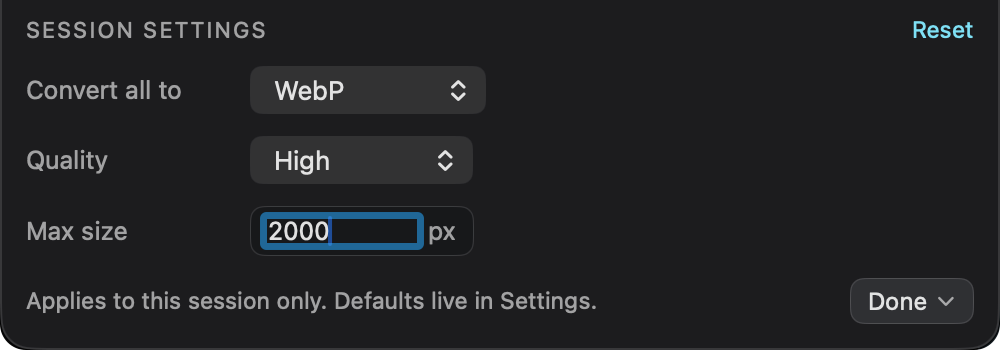
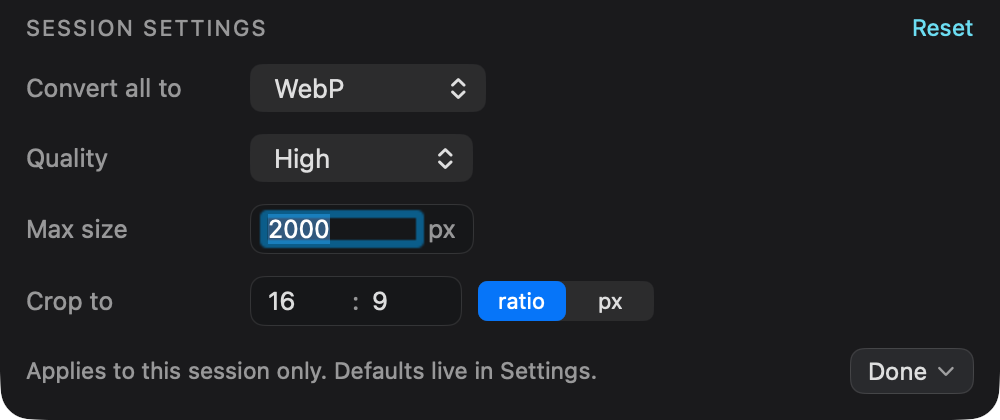
Prepare 1.4.0: version, changelog, docs and fresh screenshots
Version bumped in project.yml and ShrinkerVersion, which
CommandLineOptionsTests pins against each other.

README gains the crop in the session bar section and in the CLI table, and
its resizing paragraph becomes a resizing-and-cropping one. The Settings
window's own section needs nothing: it looks the same on a display tall
enough to show it, which is what its screenshots capture.

Only the session bar screenshots are regenerated, because they are the only
ones that changed. The main window and empty state shots show the collapsed
bar reading "App default · Standard · No limit", which is still exactly what
it says with nothing set — the crop is named in the summary only when there
is one.

Claude-Session: https://claude.ai/code/session_01VXko1RHjCYBkk3CLbuz4rY

diff --git a/Sources/ShrinkerPro/Core/ShrinkerVersion.swift b/Sources/ShrinkerPro/Core/ShrinkerVersion.swift
@@ -16,5 +16,5 @@ import Foundation
 /// something other than good intentions keeping it correct.
 enum ShrinkerVersion {
     /// Must equal `MARKETING_VERSION` in project.yml, which is asserted.
-    static let current = "1.3.1"
+    static let current = "1.4.0"
 }

diff --git a/README.md b/README.md
@@ -69,6 +69,8 @@ shrinker photo.jpg                              # a .min copy beside it
 shrinker --quality super-low --to webp ./shots   # a whole folder
 shrinker --json --quality 85 diagram.jpg         # one JSON line per file
 shrinker --max-size 2000 ./camera-roll           # nothing wider or taller than 2000px
+shrinker --crop 1:1 ./avatars                    # square, from the center
+shrinker --crop 1200x1200 ./product-shots        # square and exactly 1200px
 ```
 
 | | |
@@ -76,6 +78,7 @@ shrinker --max-size 2000 ./camera-roll           # nothing wider or taller than 
 | `--quality <level\|0-100>` | `super-low`, `low`, `standard` (default), `high` — or a number |
 | `--to <format>` | `jpeg`, `webp`, `avif`, `png` |
 | `--max-size <pixels>` | shrink any image whose longest side is bigger than this |
+| `--crop <WxH\|W:H>` | crop the center to this shape. `1200x1200` also scales to that size; `1:1` only changes the shape |
 | `--metadata <policy>` | `all` (default), `copyright`, `none` |
 | `--out <directory>` | write results here instead of beside each input |
 | `--in-place` | overwrite each original. This destroys the source |
@@ -203,14 +206,13 @@ saying what will happen to the next files you drop:
 
     This session   WebP · High · Max 2000px   Reset            Adjust ⌃
 
-**Adjust** opens the three controls in place — **Convert all to**, **Quality**
-and **Max size** — and Done, Escape or a click anywhere above closes them again.
-Nothing is ever discarded by closing: a value applies the moment it is chosen.
-A dot appears beside the summary whenever any of the three differs from what the
-app would do on its own, and **Reset** puts all three back. On a narrow window
-the bar drops the "This session" prefix and the inline Reset rather than
-wrapping; the dot and the summary carry the meaning, and Reset is still in the
-panel.
+**Adjust** opens the four controls in place — **Convert all to**, **Quality**,
+**Max size** and **Crop to** — and Done, Escape or a click anywhere above closes
+them again. Nothing is ever discarded by closing: a value applies the moment it
+is chosen. A dot appears beside the summary whenever any of them differs from
+what the app would do on its own, and **Reset** puts them all back. On a narrow
+window the summary moves to a line of its own beneath the controls rather than
+truncating, because a value hidden behind an ellipsis is a value not stated.
 
 **Everything in the bar applies to this session only.** It is typed in the
 window, it is never written to disk, and it is gone the next time you launch —
@@ -239,12 +241,35 @@ a portrait one by its height, always keeping the aspect ratio, and anything
 already inside the cap is left at the size it arrived. Leave it blank for no
 resizing. It is in force the moment it is typed, with no Return to press.
 
-Resizing is done by ImageIO for every still image, whichever encoder finishes
-the file, so a PNG and a WebP capped at the same number match. GIF is the
-exception: gifsicle resizes it, because an ImageIO round trip would flatten an
-animation to one frame. SVG is unaffected — it is vector, so it has no pixel
-size to cap. And a resized file is written even if it comes out larger, the
-same exemption converting has: you asked for those dimensions.
+**Crop to** cuts the largest centered rectangle of a given shape out of every
+image. Two numbers, and a choice of what they mean: **ratio** — `16 : 9` —
+crops to that shape and leaves the resolution alone, and **px** — `1200 × 1200`
+— crops to that shape and then scales it down to exactly that size, which is
+what you want for a folder of product photos that all have to come out the same.
+
+Nothing is ever enlarged. An 800×600 image asked for 1200×1200 comes out
+600×600: the right shape, smaller than asked. The shape is used exactly as
+typed, so a portrait photo cropped to 16:9 comes out as a landscape strip rather
+than being quietly turned on its side to suit.
+
+Both numbers are needed. With only one filled in nothing can be cropped, so the
+panel will not close and files will not be shrunk until you finish the pair or
+clear it — the alternative was running a whole batch as though the number had
+never been typed, which is not undoable once the originals have been replaced.
+
+A **px** crop sets the output size outright, so the Max size field is dimmed
+while one is in force: the two would be answers to the same question, and there
+is no size a cap could impose that smaller numbers in the crop would not state
+better. A **ratio** crop says nothing about size, so Max size still applies to
+what it leaves.
+
+Resizing and cropping are done by ImageIO for every still image, whichever
+encoder finishes the file, so a PNG and a WebP given the same numbers match. GIF
+is the exception: gifsicle handles it, because an ImageIO round trip would
+flatten an animation to one frame. SVG is unaffected — it is vector, so it has
+no pixels to cap or to cut. And a resized or cropped file is written even if it
+comes out larger, the same exemption converting has: you asked for those
+dimensions.
 
 SVG and GIF ignore the format override, exactly as they ignore the stored rules.
 

diff --git a/CHANGELOG.md b/CHANGELOG.md
@@ -4,7 +4,42 @@ Notable changes per release. Downloads and signed artifacts are on the
 [releases page](https://github.com/jeso87/ShrinkerPro/releases); existing
 installs are offered updates automatically by Sparkle.
 
-## 1.4.0 — unreleased
+## 1.4.0 — 2026-09-17
+
+### Added
+
+**Crop from the center.** A fourth control in the session bar takes two numbers
+and a choice of what they mean. **`16 : 9`** crops the largest centered
+rectangle of that shape out of every image and leaves the resolution alone.
+**`1200 × 1200 px`** crops to that shape and then scales it down to exactly that
+size — which is what you want for a folder of product photos that all have to
+come out one size.
+
+Nothing is ever enlarged: an 800×600 image asked for 1200×1200 comes out
+600×600, the right shape and smaller than asked. The shape is used exactly as
+typed, so a portrait photo cropped to 16:9 comes out as a landscape strip rather
+than being quietly turned on its side to suit. Both consequences are stated in
+the control's own tooltip rather than left to be discovered.
+
+Every still format is cropped by the same code that already handles rotation and
+resizing, so a PNG and a WebP given the same numbers match. Animated GIFs keep
+every frame — gifsicle does the work, because an ImageIO round trip would write
+a still. SVG is unaffected; it is vector, so it has no pixels to cut. And like
+the format override and the max size beside it, the crop lasts for the session
+and is never written to disk.
+
+Both numbers are required. With one filled in there is no shape to crop to, so
+the panel will not close and nothing is shrunk until the pair is finished or
+cleared — running a whole batch as though the number had never been typed is not
+undoable once the originals have been replaced.
+
+A pixel crop sets the output size outright, so it takes the max size out of
+play: the window dims that field, and the command line refuses `--crop 1200x1200`
+alongside `--max-size`. A ratio crop says nothing about size, so the two still
+compose exactly as they did.
+
+The headless `shrinker` command gains the same thing as `--crop 16:9` or
+`--crop 1200x1200`.
 
 ### Fixed
 

diff --git a/docs/release-notes/1.4.0.md b/docs/release-notes/1.4.0.md
@@ -1,0 +1,34 @@
+### Crop from the center
+
+A fourth control in the session bar: **Crop to**, with two numbers and a
+choice of what they mean.
+
+**`16 : 9`** crops the largest centered rectangle of that shape out of every
+image and leaves the resolution alone. **`1200 × 1200 px`** crops to that
+shape and then scales it down to exactly that size — which is what you want
+for a folder of product photos that all have to come out the same.
+
+Nothing is ever enlarged. An 800×600 image asked for 1200×1200 comes out
+600×600: the right shape, smaller than asked. The shape is used exactly as
+typed, so a portrait photo cropped to 16:9 comes out as a landscape strip
+rather than being quietly turned on its side to suit.
+
+Every format is cropped by the same code that already handles rotation and
+resizing, so a PNG and a WebP cropped to the same numbers match. Animated
+GIFs keep every frame. SVG is unaffected — it is vector, so it has no pixels
+to cut. Nothing is saved to disk: the crop lasts for the session, like the
+format override and the max size beside it.
+
+The headless `shrinker` command gains the same thing as `--crop 16:9` or
+`--crop 1200x1200`.
+
+### The Settings window fits on your screen
+
+It was a little over 1000 points tall and would not scroll, so on a laptop
+the Metadata and General sections sat below the bottom edge with no way to
+reach them. It now scrolls, and it is never taller than the display it is
+actually on — including after you change that display's resolution, or drag
+the window to a different one.
+
+When there is more below, the last row fades out and a small chevron marks
+the edge, because macOS hides scroll bars until you are already scrolling.
